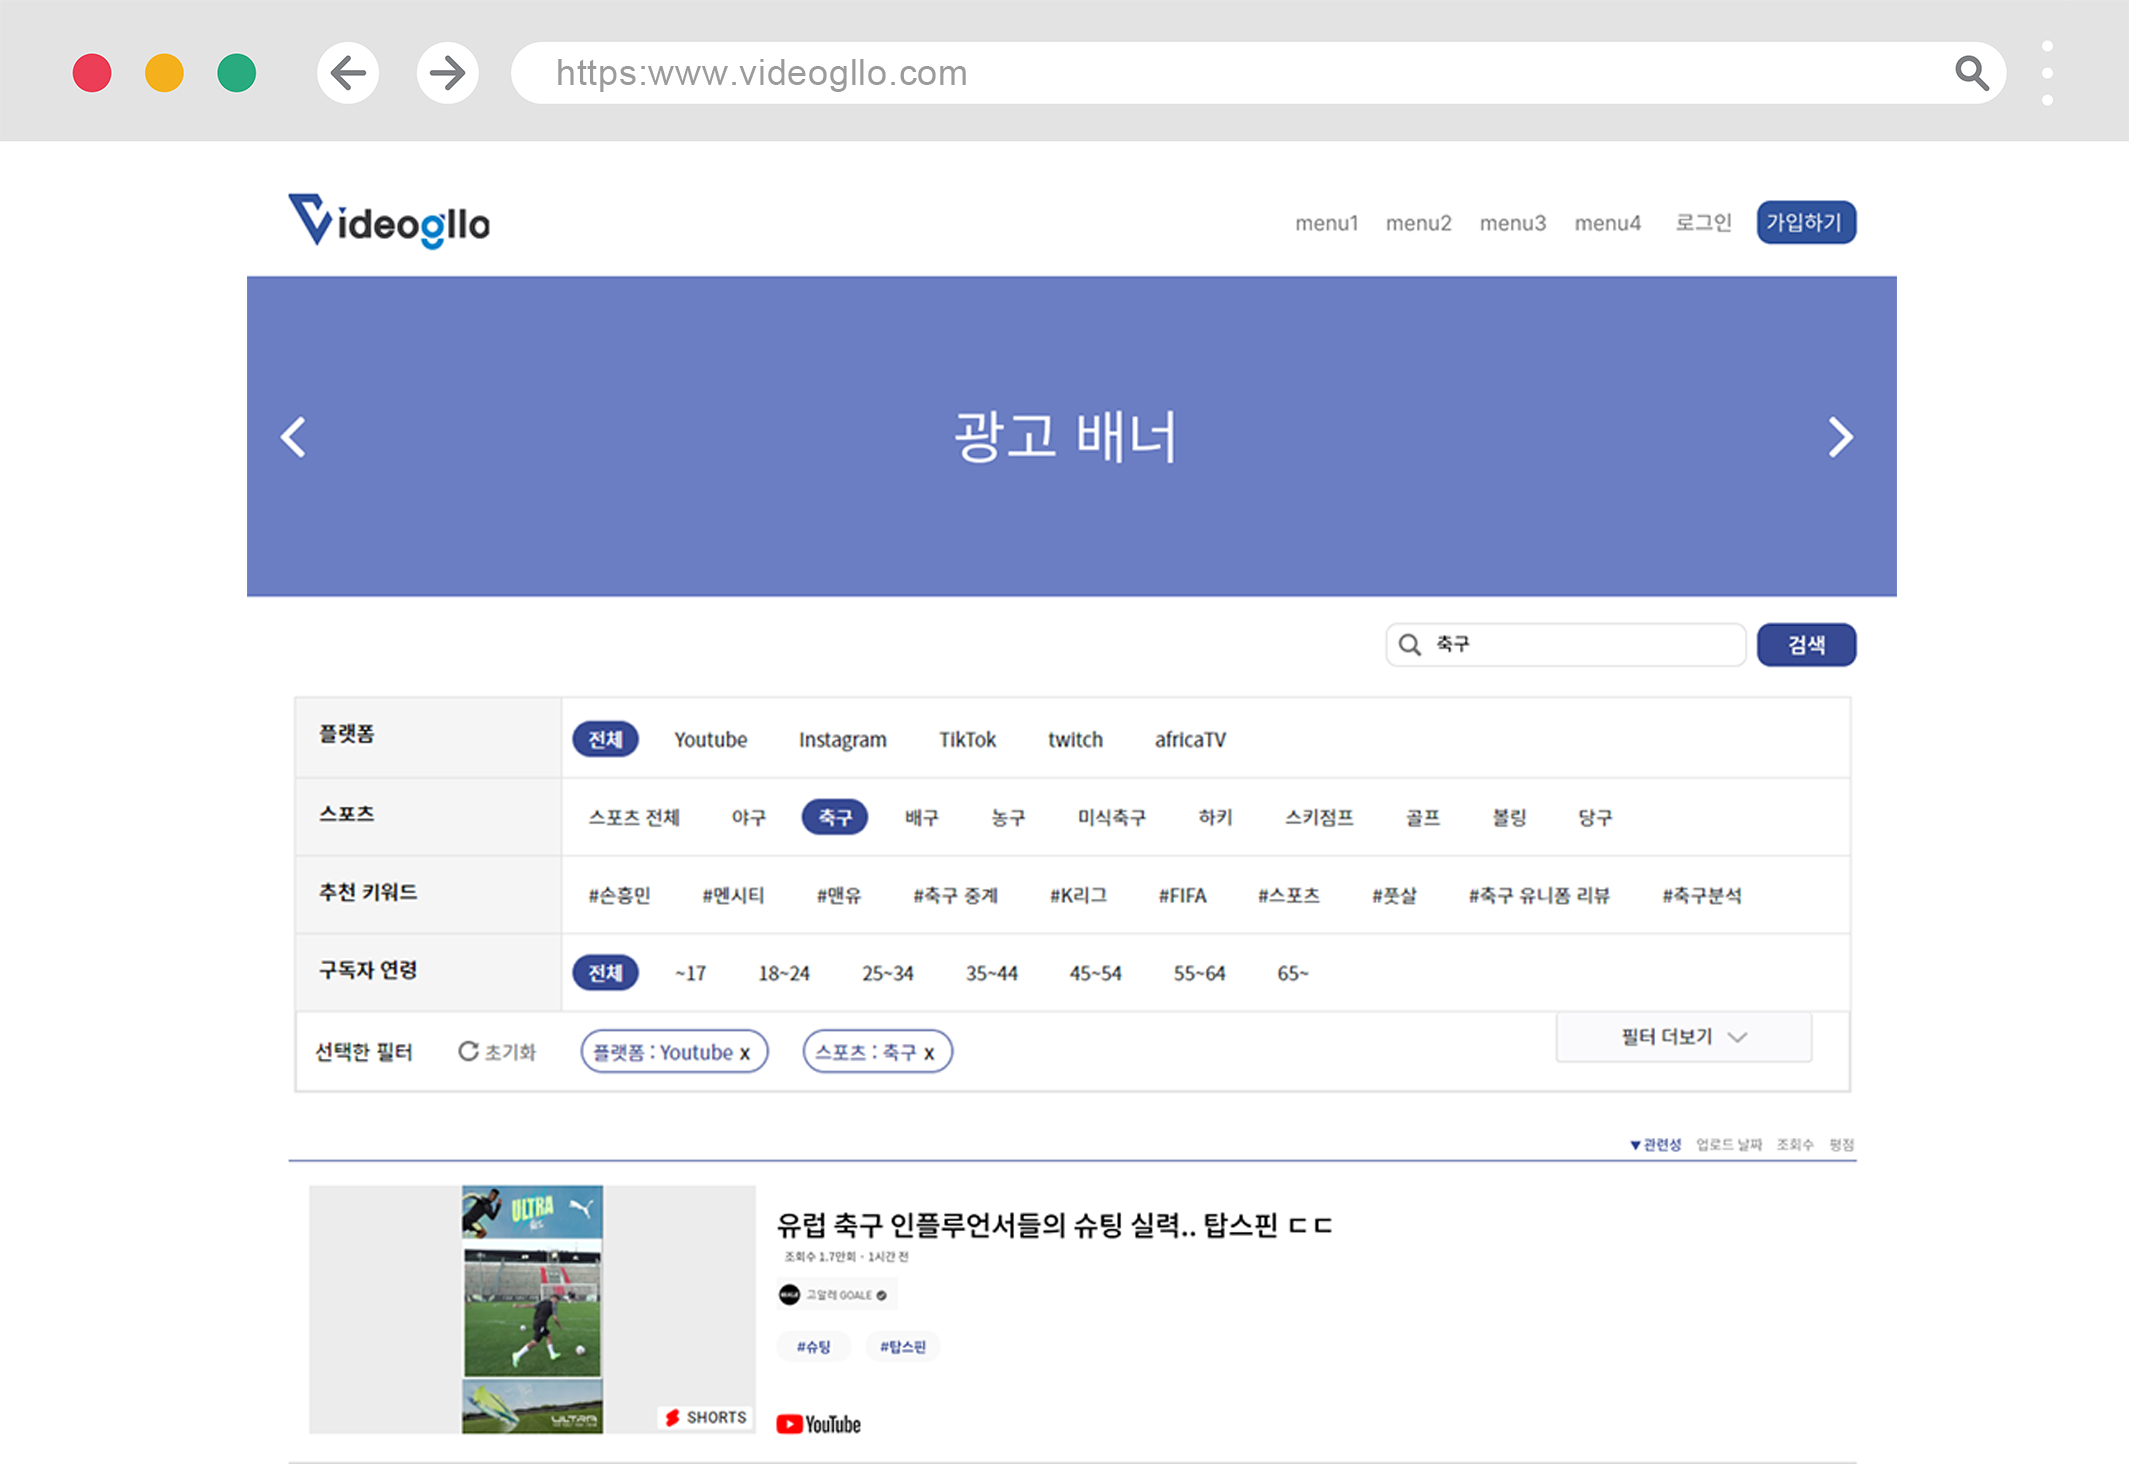
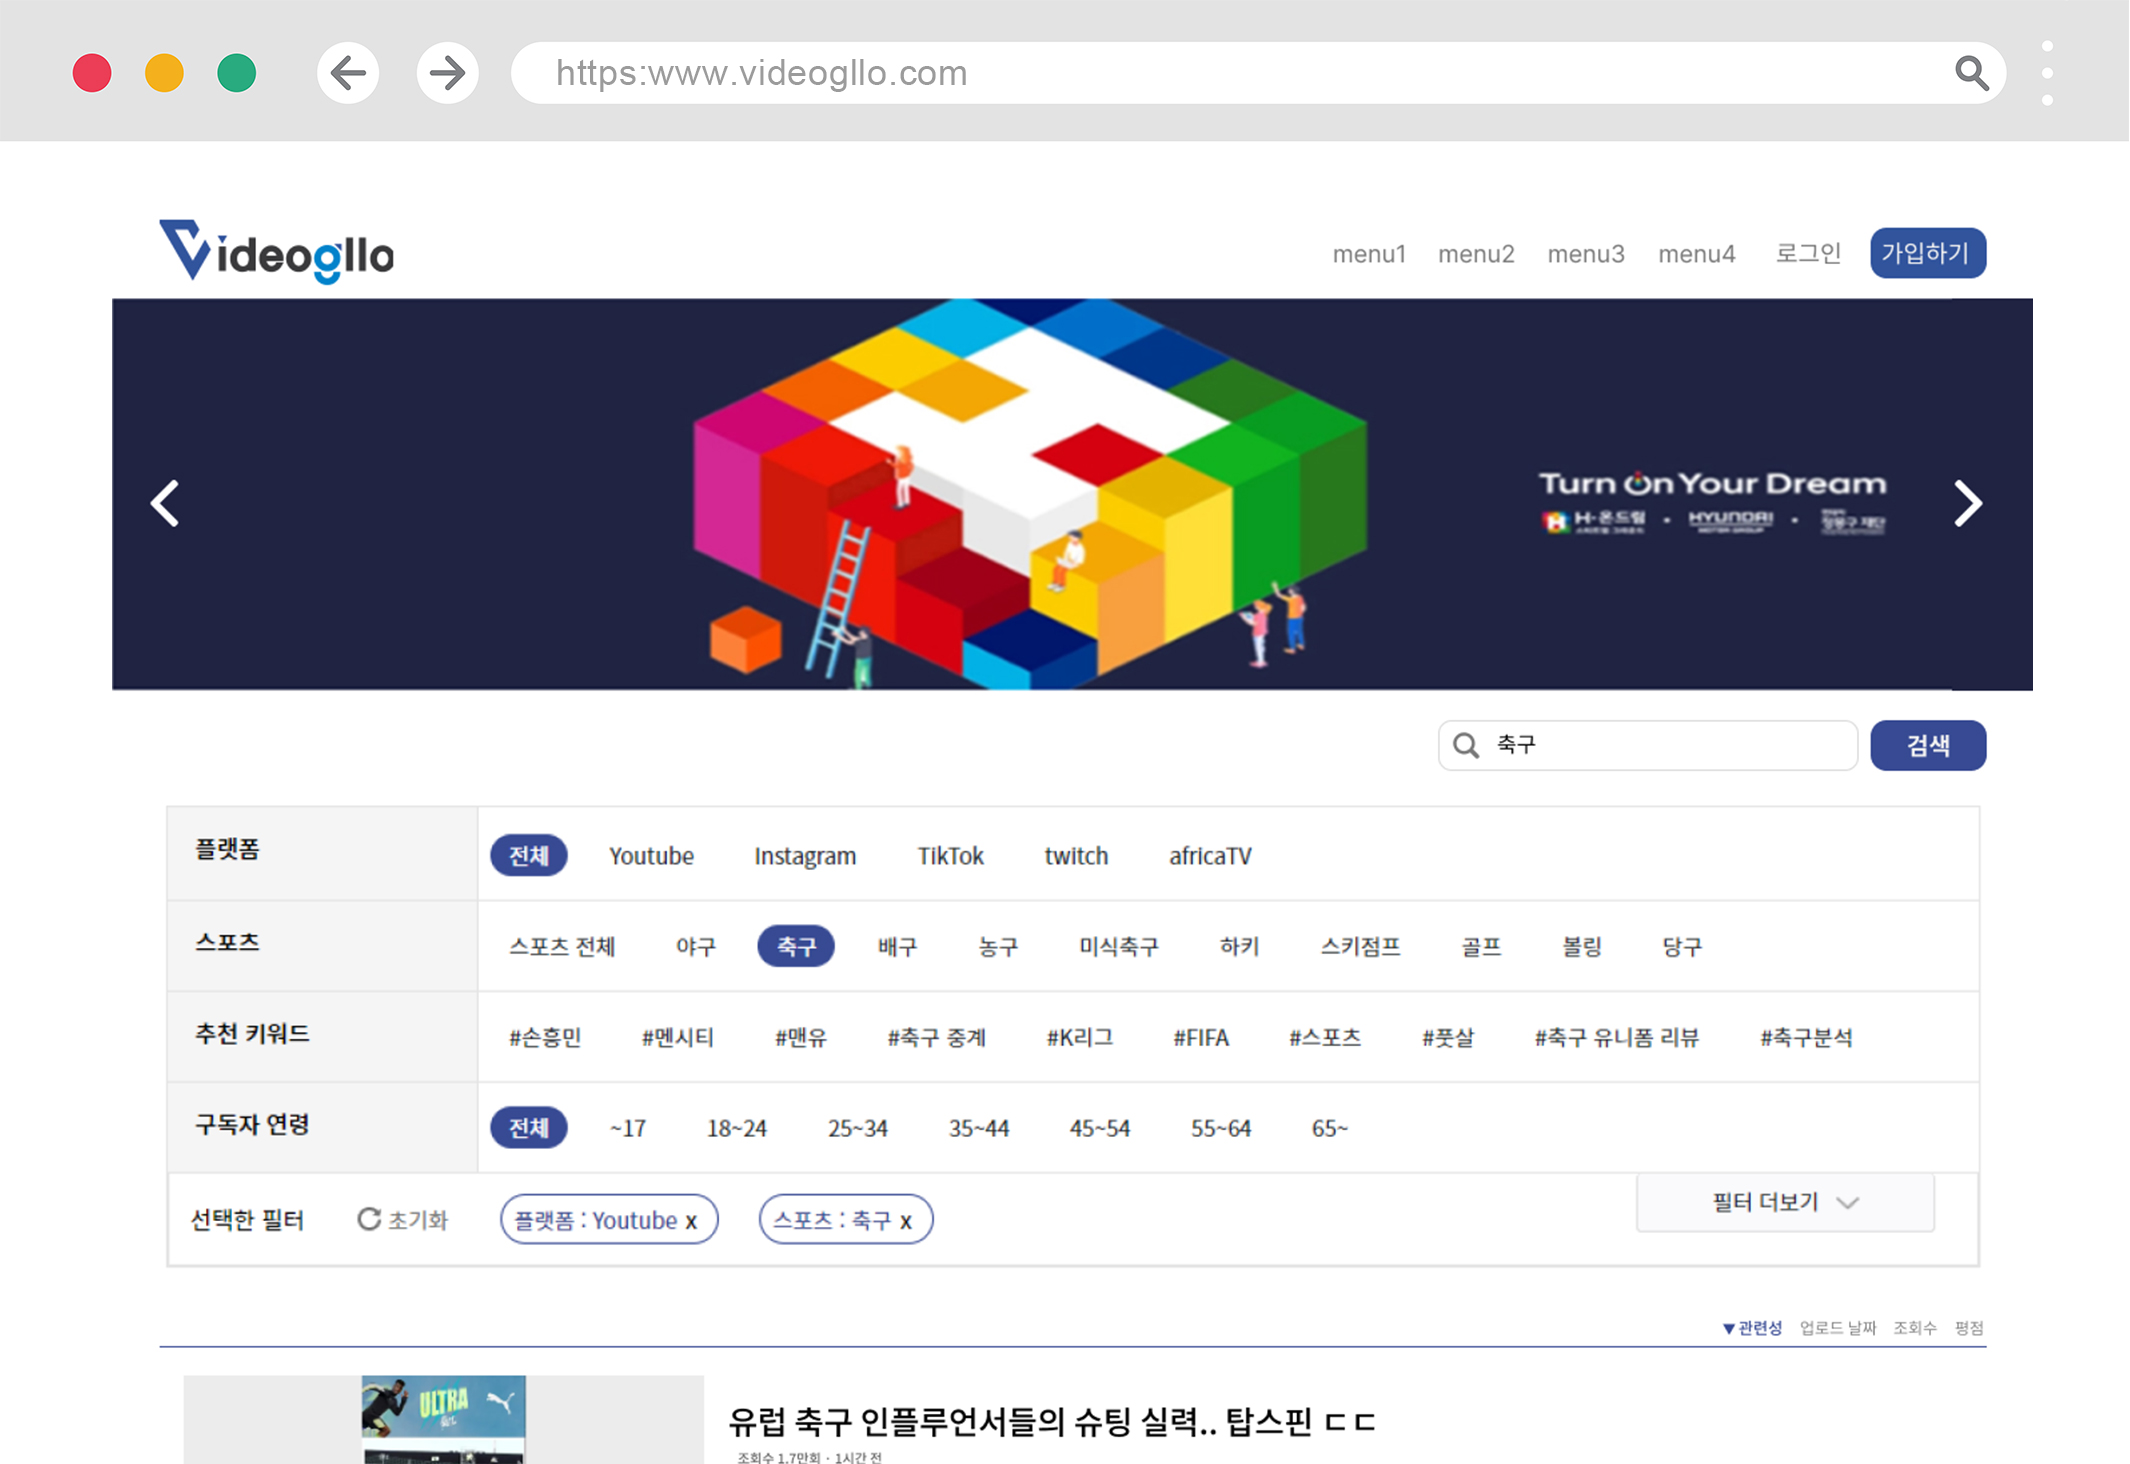
수정 * 서비스 4번째 추가 * 메인 슬라이드 애니메이션 60초로 변경 * 자주묻는 질문 폰트 두께, 크기 변경 * 고객센터 map 제거

diff --git a/src/components/Qna.jsx b/src/components/Qna.jsx
@@ -10,7 +10,7 @@ import { AnimationOnScroll } from 'react-animation-on-scroll'
 import { QuestionMarkCircleIcon } from "@heroicons/react/24/solid";
 
 const index = [
-  { index: 1, title: '""비데오글로"는 무슨 뜻인가요?', description: '스페인어로 비디오를 뜻하는 "video"와 정리,정돈을 뜻하는 "arreglo"를 사용하여 정돈 된 미디어 정보를 제공하는 큐레이션 서비스를 뜻하는 용어 입니다.' },
+  { index: 1, title: '"비데오글로"는 무슨 뜻인가요?', description: '스페인어로 비디오를 뜻하는 "video"와 정리,정돈을 뜻하는 "arreglo"를 사용하여 정돈 된 미디어 정보를 제공하는 큐레이션 서비스를 뜻하는 용어 입니다.' },
   { index: 2, title: '"비데오글로"는 무슨 서비스인가요?', description: '크리에이터 및 정규미디어컨텐츠에대한 정보를 제공하고, 사용자의 활용스타일에 맞추어 미디어컨텐츠의 모든 정보를 큐레이션해주는 서비스입니다.' },
   { index: 3, title: '사용료가 따로 있나요?', description: '모든 서비스는 무료입니다.' },
   { index: 4, title: '저는 크리에이터입니다. 광고를 하고싶은데 광고상품이 있을까요?', description: '저희는 이제 막 크리에이터로서 꿈을 펼치시는 크리에이터분들의 성장을 적극 돕는 플랫폼으로서 저렴하고 효과적인 광고비용으로 광고를 진행할 수 있는 몇가지 광고상품을 안내해드릴 수 있습니다. videogllo@videogllo.com 으로 문의메일 주시면 각 광고상품을 소개해드리는 안내 소개서를 발송해드리겠습니다.' },
@@ -44,7 +44,7 @@ export function Qna() {
             animateOut='animate__fadeOutUp'
             delay={100}
           >
-            <div className="mt-8 flex flex-col">
+            <div className="mt-8 flex flex-col p-2">
               <div className="-my-2 -mx-4 overflow-x-auto sm:-mx-6 lg:-mx-8 lg:p-4">
                 <div className="inline-block min-w-full py-2 align-middle md:px-6 lg:px-8">
                   <div className="overflow-hidden shadow ring-1 ring-black ring-opacity-5 md:rounded-lg">
@@ -60,7 +60,7 @@ export function Qna() {
                             }
                           >
                             <td
-                              className="flex whitespace-nowrap px-3 py-4 text-left text-sm text-gray-500 transition-all duration-300 ease-in-out hover:bg-gray-200 cursor-pointer"
+                              className="flex px-3 py-4 text-left text-sm text-gray-700 transition-all duration-300 ease-in-out hover:bg-gray-200 cursor-pointer"
                               onClick={() => {
                                 if (i.index == tableToggleState) {
                                   tableToggle(null)
@@ -69,14 +69,14 @@ export function Qna() {
                                 }
                               }}
                             >
-                              <div className='flex items-center text-base'>
+                              <div className='flex items-center text-lg font-semibold'>
                                 <QuestionMarkCircleIcon className='w-5 h-5 mt-1'/>&emsp;
-                                {i.title}
+                                <p>{i.title}</p>
                               </div>
                             </td>
   
                             {tableToggleState === i.index ? (
-                              <td className="flex !bg-white px-3 py-4 text-left text-sm text-gray-500 pl-8 border-t border-gray-400" style={{wordBreak:"keep-all"}}>
+                              <td className="flex !bg-white px-3 py-4 text-left text-base font-semibold text-gray-600 pl-8 border-t border-gray-400" style={{wordBreak:"keep-all"}}>
                                 {i.description}
                               </td>
                             ) : null}

diff --git a/src/components/Service.jsx b/src/components/Service.jsx
@@ -32,6 +32,12 @@ const features = [
       "",
     image: screenshotService3,
   },
+  {
+    title: '라이브 스트리밍, 숏폼 콘텐츠 정보 제공',
+    description:
+      "",
+    image: screenshotService3,
+  },
 ]
 
 export function Service() {
@@ -84,7 +90,7 @@ export function Service() {
           {({ selectedIndex }) => (
             <>
               <div className="-mx-4 flex overflow-x-hidden pb-4 sm:mx-0 sm:overflow-visible sm:pb-0 lg:col-span-5">
-                <Tab.List className="w-full relative z-10 flex gap-x-4 whitespace-nowrap px-4 sm:mx-auto sm:px-0 lg:mx-0 lg:block lg:gap-x-0 lg:gap-y-1 lg:whitespace-normal">
+                <Tab.List className="w-full relative z-10 gap-x-4 whitespace-nowrap px-4 sm:mx-auto sm:px-0 lg:mx-0 lg:block lg:gap-x-0 lg:gap-y-1 lg:whitespace-normal">
                   {features.map((feature, featureIndex) => (
                     <div
                       key={feature.title}
@@ -131,7 +137,7 @@ export function Service() {
                   {features.map((feature) => (
                     <Tab.Panel key={feature.title} unmount={false}>
                       <div className="relative sm:px-6 lg:hidden flex">
-                        <div className="absolute -inset-x-4 top-[-6.5rem] bottom-[-4.25rem] bg-white/10 ring-1 ring-inset ring-white/10 sm:inset-x-0 sm:rounded-t-xl" />
+                        {/* <div className="absolute -inset-x-4 top-[-6.5rem] bottom-[-4.25rem] bg-white/10 ring-1 ring-inset ring-white/10 sm:inset-x-0 sm:rounded-t-xl" /> */}
                         <p className="relative mx-auto max-w-2xl text-base text-white sm:text-center">
                           {feature.description}
                         </p>

diff --git a/src/components/Header.jsx b/src/components/Header.jsx
@@ -97,7 +97,7 @@ export function Header() {
             <Link href="#" aria-label="Home">
               <Logo className="h-10 w-auto" />
             </Link>
-            <div className="hidden md:flex md:gap-x-6 ml-12 font-bold ml-auto">
+            <div className="hidden md:flex md:gap-x-6 font-semibold ml-auto text-slate-900">
               <NavLink href="#service">서비스</NavLink>
               <NavLink href="#news">보도자료</NavLink>
               <NavLink href="#qna">자주묻는질문</NavLink>

diff --git a/src/components/News.jsx b/src/components/News.jsx
@@ -29,7 +29,7 @@ const posts = [
     title: '크리에이터 컨텐츠 제작시장 사람과 돈이 몰린다.',
     url: 'http://news.heraldcorp.com/view.php?ud=20220928000357',
     imageUrl:
-      'https://www.salonlfc.com/wp-content/uploads/2018/01/image-not-found-scaled-1150x647.png'
+      'https://creator.design/images/og/the.creator.logo-og.png'
   },
 ]
 

diff --git a/tailwind.config.js b/tailwind.config.js
@@ -38,7 +38,7 @@ module.exports = {
         },
       },
       animation: {
-        "move-left": "move-left 40s linear infinite",
+        "move-left": "move-left 60s linear infinite",
       },
     },
   },
